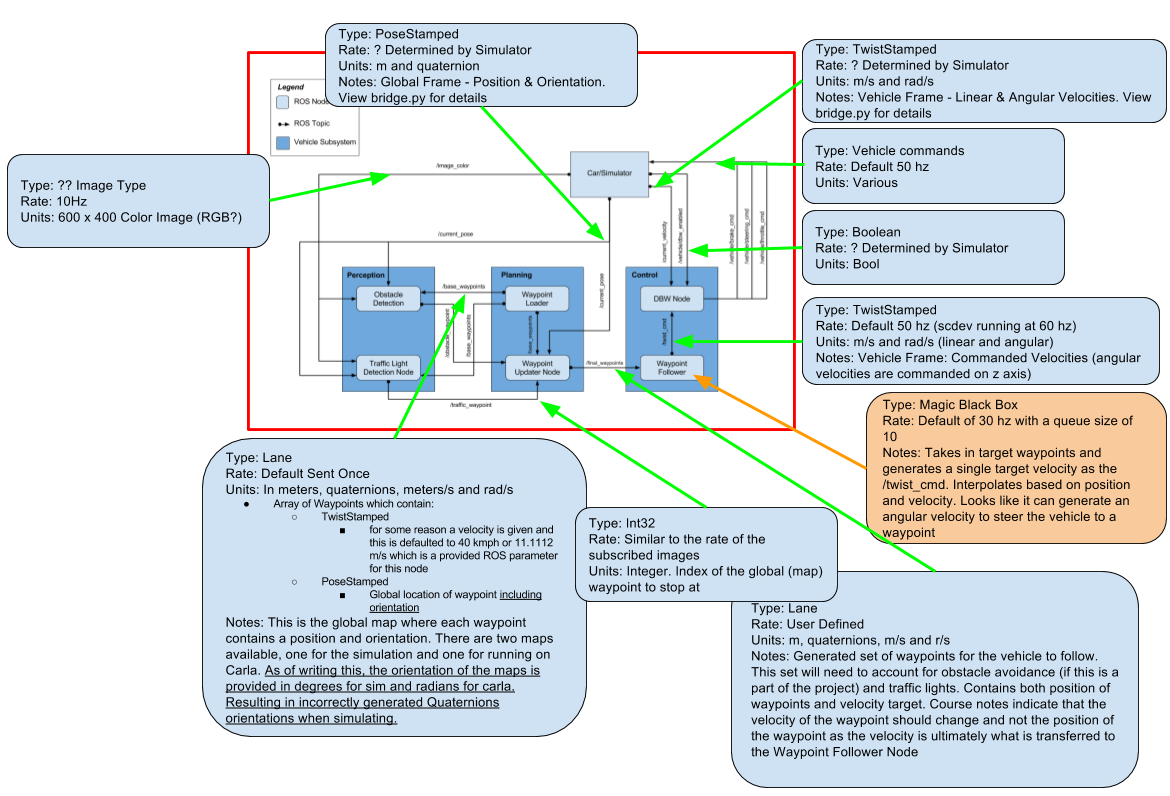
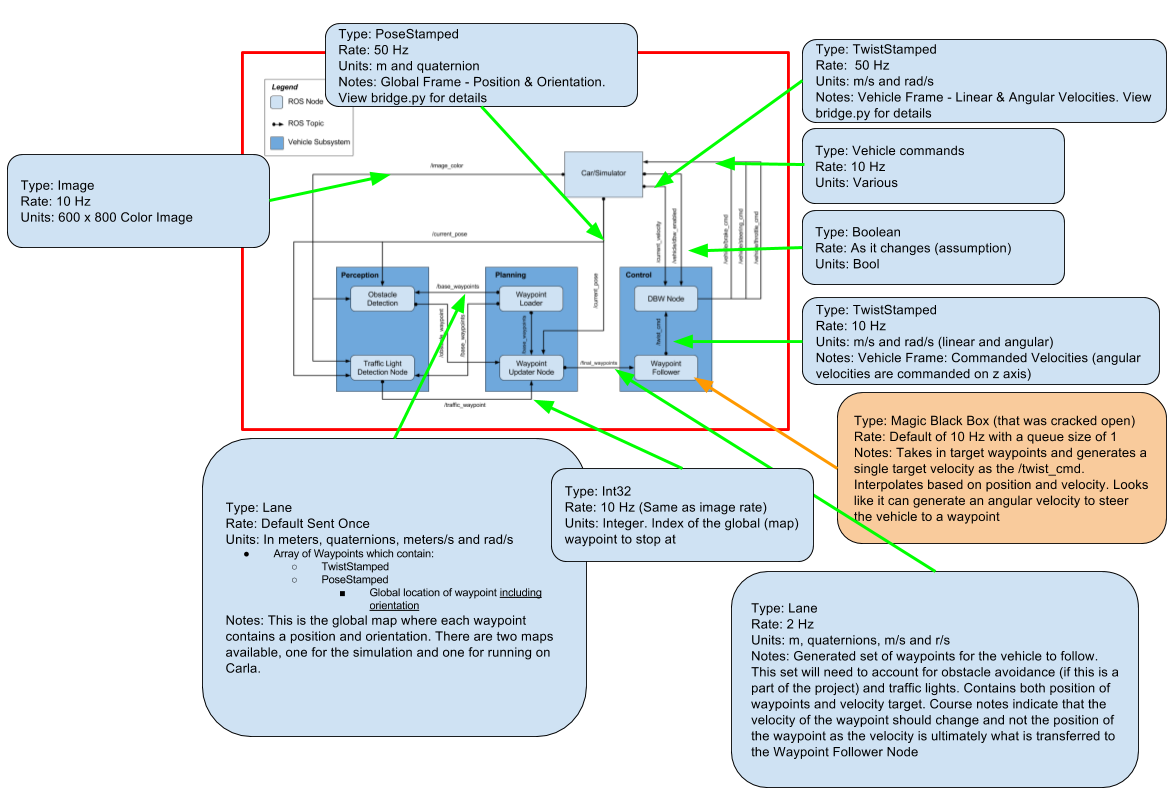
DOC: Updated an image, added a libraries and acknowledgments section and entered or extended descriptions of various sections.

diff --git a/README.md b/README.md
@@ -22,24 +22,55 @@ W. G. (need approval)
 
 
 
+
 ### System Architecture
 
+#### Initial Architecture
+
 <img src="./doc/software_architecture_requirements.png" width="700">  
+
+#### Notes
+
 <img src="./doc/Overview_Messages_Nodes.png" width="900">  
+
+#### Generated graph of the resulting nodes, topics and pub-sub details.
+
 <img src="./doc/rosgraph.png" width="700">
 
 ### Perception
 
 <img src="./doc/ssd_architecture.png" width="700">
 
-A SSD MobileNet architecture is deployed for recorded our traffic light detection. We therefore train our own labeled images on a pretrained model from the [Tensorflow detection model zoo](https://github.com/tensorflow/models/blob/master/research/object_detection/g3doc/detection_model_zoo.md) utilizing the [Tensorflow Object Detection API](https://github.com/tensorflow/models/tree/master/research/object_detection).  
+The basis of the traffic light classification is a Deep Neural Network [Single Shot MultiBox Detector (SSD)](http://www.cs.unc.edu/~wliu/papers/ssd.pdf) architecture. This  classifies the object and detects a bounding box for said object. For greater classification accuracy, we created two models, one trained on simulator images and one trained on images taken from a run around the course on Carla (extracted from a rosbag provided by Udacity). These images were extracted and labeled using the VIA tool (see below). A pre-trained model from [Tensorflow detection model zoo](https://github.com/tensorflow/models/blob/master/research/object_detection/g3doc/detection_model_zoo.md) was re-trained with the [Tensorflow Object Detection API](https://github.com/tensorflow/models/tree/master/research/object_detection).  
+
+Due to a lack of suitable Machine Learning acceleration hardware available among the development team, we chose to process a reduced number of video frames for the traffic light classification. The planner is crafted with this limitation in mind and the end result is a dependable traffic light detection mechanism that strikes a balance between accuracy and performance.
 
 <img src="./doc/tl_detection.gif">  
 
+The vehicle's point of view as it approaches a set of traffic lights.
+
 ### Planning
+
+The Planner takes the high-level information about the world, information about the current and past states of the vehicle and what the vehicle currently perceives, meshes this together and generates both a position and velocity track for the vehicle to follow. Based on the current position of the vehicle, it selects a set of target world way points to visit and using a spline fitting utility, creates intermediate target way points (with associated velocities) for the vehicle to follow. This will ensure that the vehicle is always tracking to a smooth path and will re-track to the center of the lane in case it ever goes off center of the target. The design can be easily extended to enable lane keeping, lane changing or obstacle avoidance; This means operation in a multi-lane environment with other traffic. Traffic lights are processed by determining which set of lights the vehicle needs to obey next and 'looking' at the state of the lights as the vehicle approaches them. Based on the dynamic interaction of the vehicle and the traffic lights, the autopilot assesses the intersection state and chooses an appropriate behavior - prepare to stop, stop or proceed.
 
 <img src="./doc/rviz_waypoints.png" width="500">
 
+RVIZ was used to visualize the generated way-points from the planner.
+
 ### Control
 
+A PID controller is used for Throttle and a PD controller is used for braking.
+
 <img src="./doc/controller_tuning.png" width="500">  
+
+
+### Libraries & Acknowledgements
+
+[Cubic Spline library](https://github.com/AtsushiSakai/pycubicspline) by Atsushi Sakai
+
+[Tensorflow Object Detection](https://github.com/tensorflow/models/tree/master/research/object_detection)
+
+An extremely approachable aritcle, [Racoon Training](https://medium.com/towards-data-science/how-to-train-your-own-object-detector-with-tensorflows-object-detector-api-bec72ecfe1d9) by [Dat Tran](https://github.com/datitran/raccoon_dataset) was used to guide the initial steps into the tensorflow object detection utilities. Tools from his repository were used or modified to create the protobuf binaries for training the object detector. 
+
+[VGG Image Annotator (VIA)](http://www.robots.ox.ac.uk/~vgg/software/via/)
+
